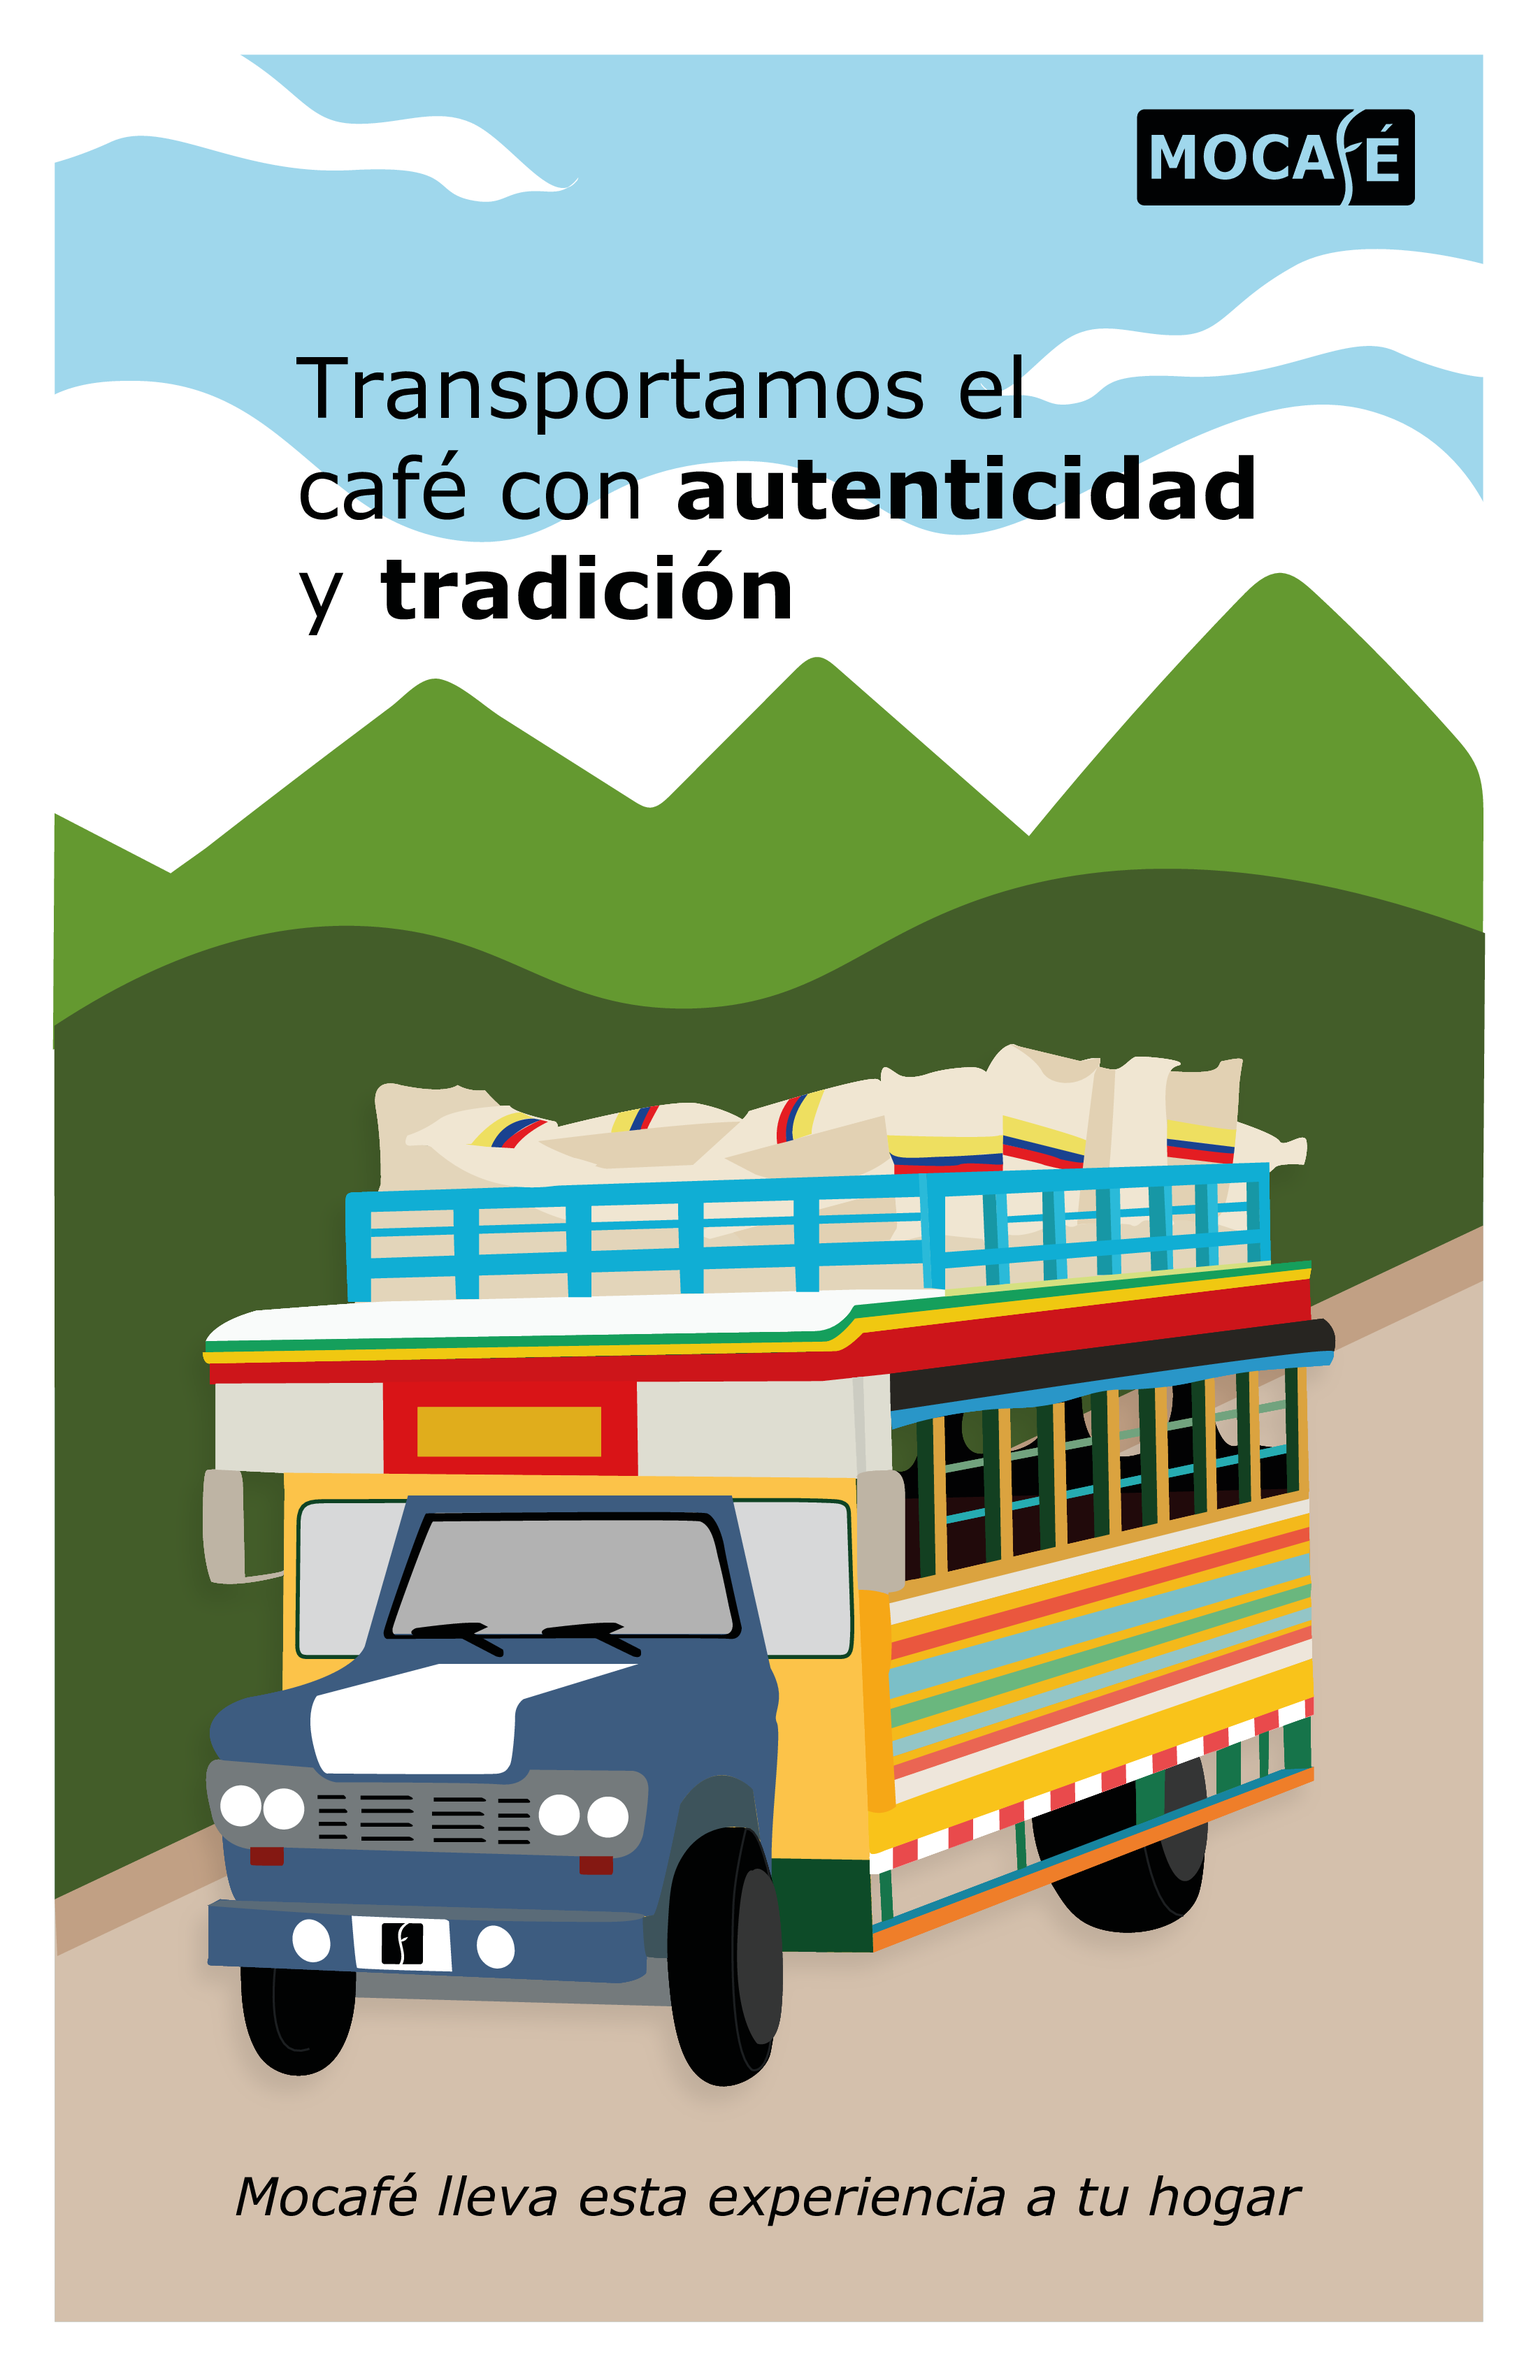
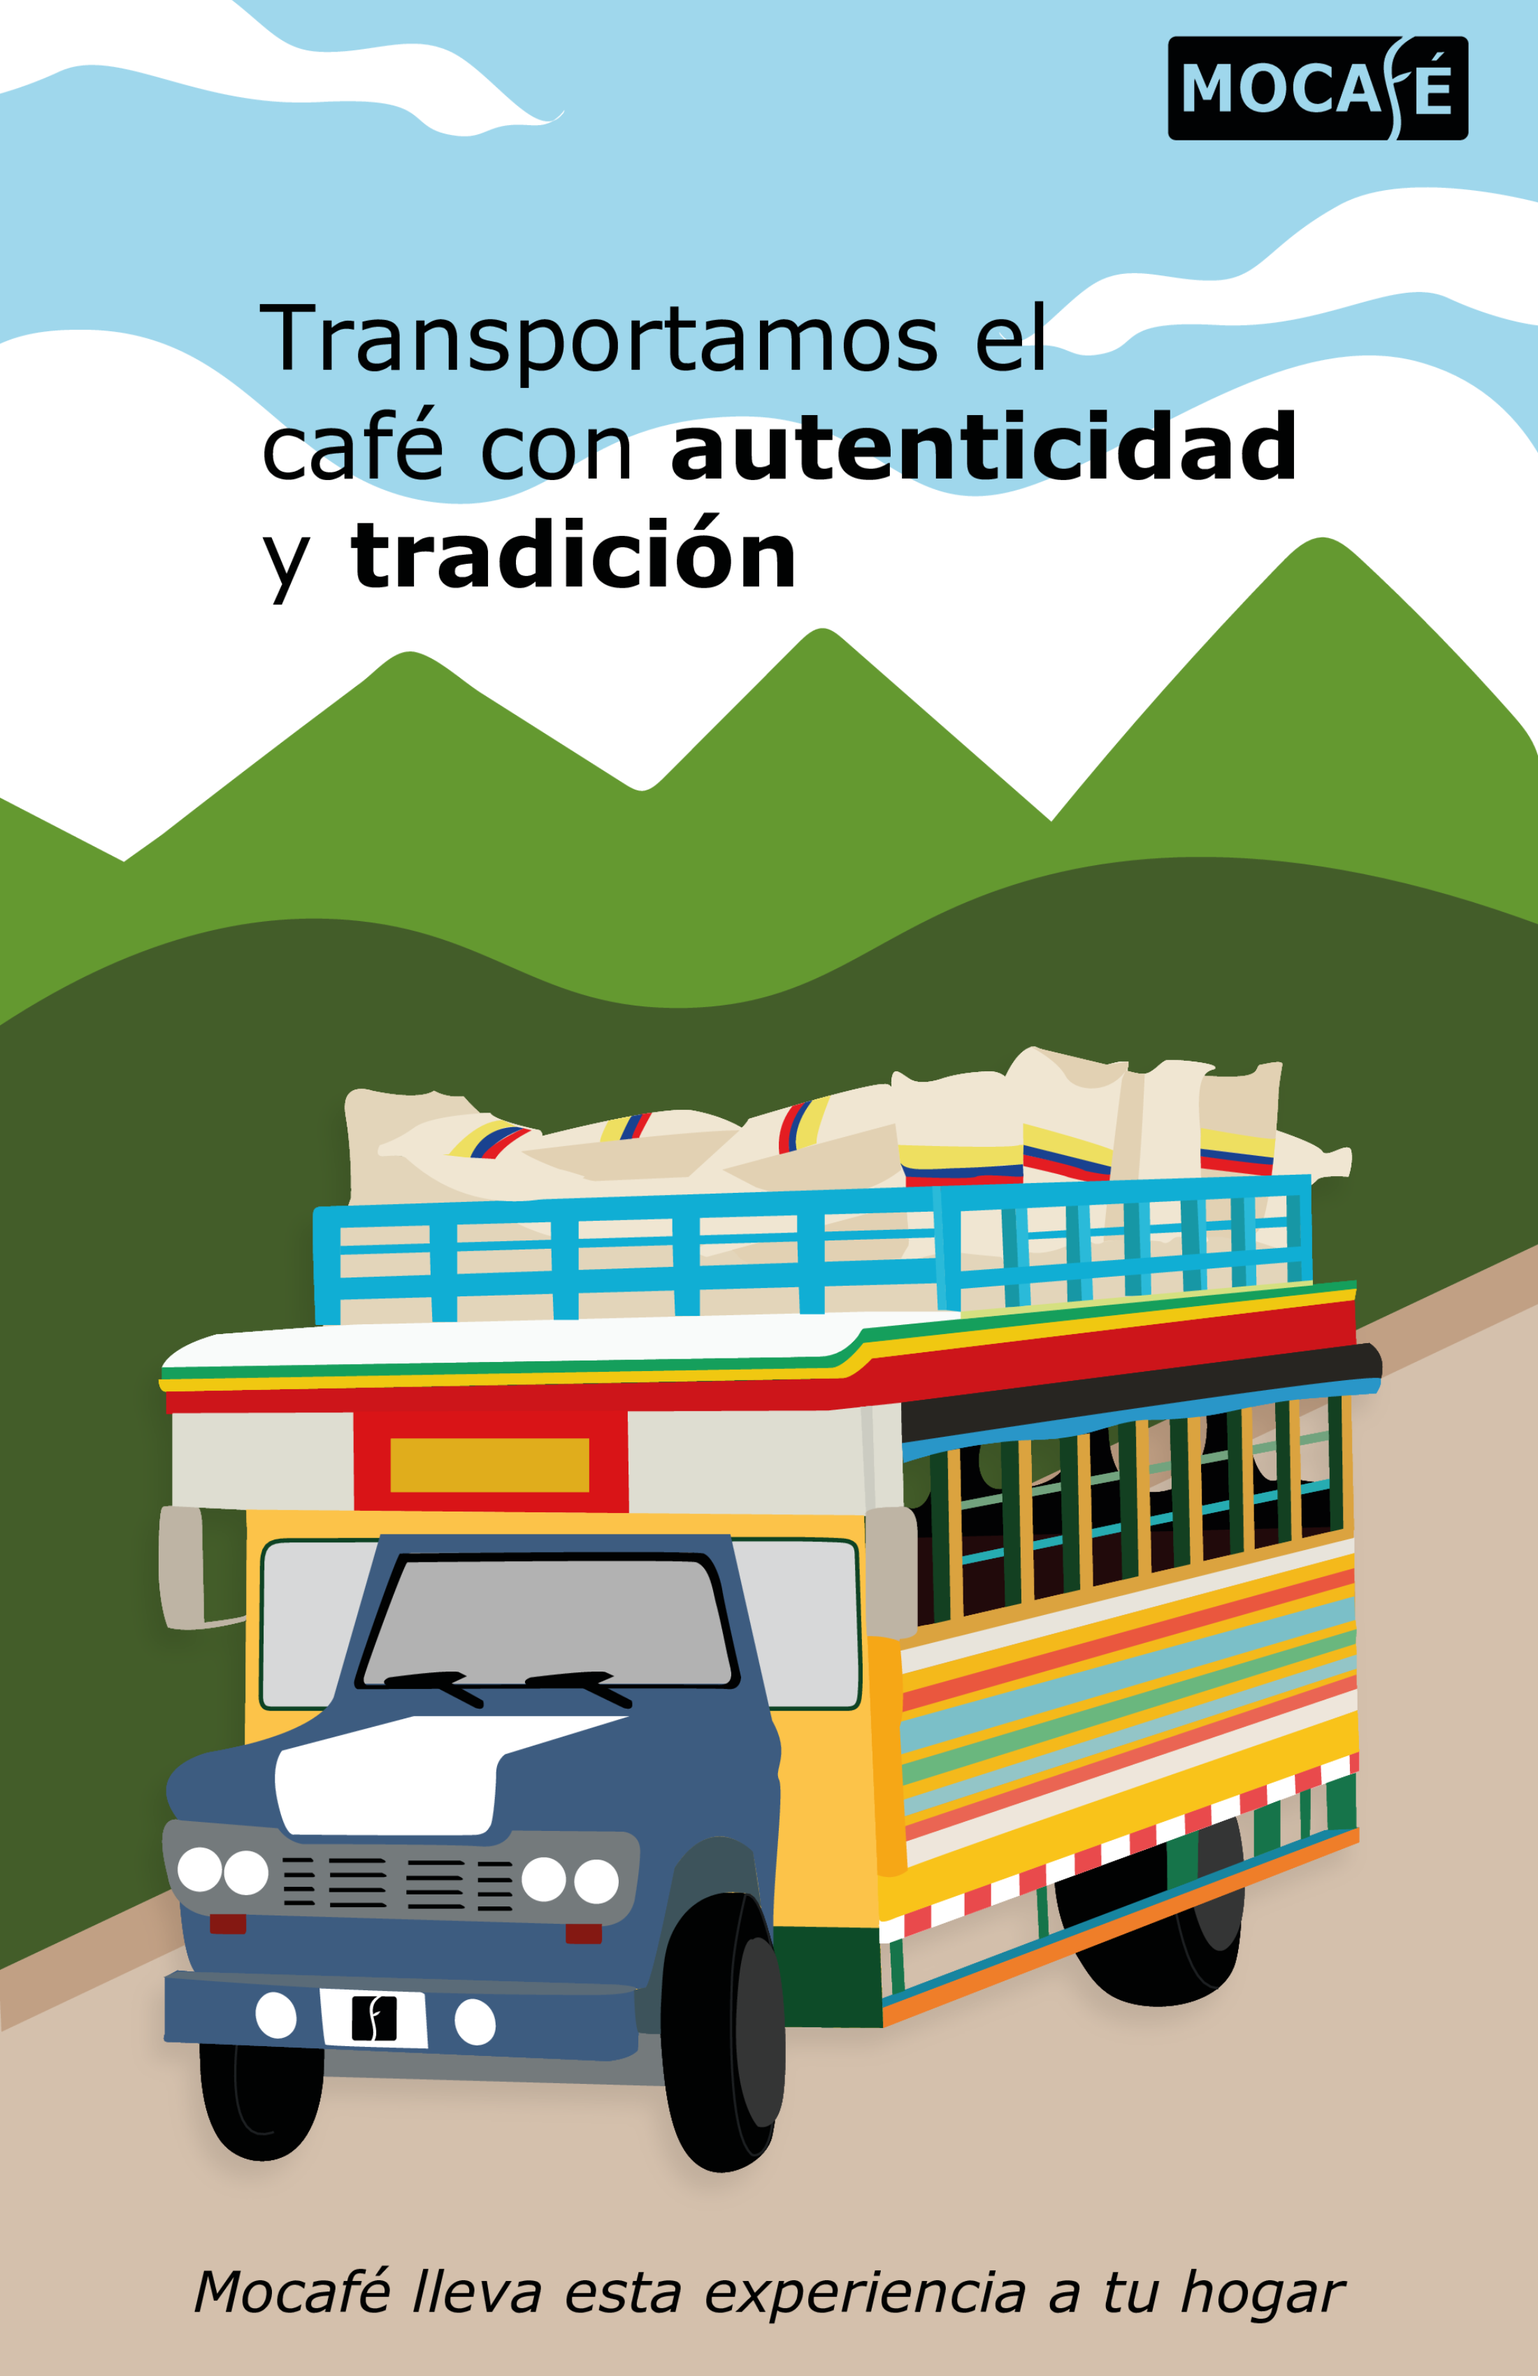
puse la chiba en contacto

diff --git a/css/mariana.css b/css/mariana.css
@@ -956,7 +956,7 @@ textarea:focus {
     margin-top: 20px;
 }
 
-.contacto2{
+.contacto2 {
     display: none;
 }
 
@@ -1705,47 +1705,68 @@ textarea:focus {
 
     /*CONTACTANOS*/
 
-    .contacto{
+    .div-body {
+        width: 100%;
+        height: 97vh;
+        background-image: url('../img/poster-chiva.png');
+        background-size: cover;
+        background-position: center;
+        background-repeat: no-repeat;
+        display: flex;
+        justify-content: center;
+        align-items: center;
+        color: #fff;
+        font-size: 24px;
+    }
+
+    .contacto {
         display: none;
     }
-    .contacto2{
+
+    .contacto2 {
         display: block;
     }
-    .contenido-contacto2{
+
+    .contenido-contacto2 {
         padding: 20px;
         color: #603e34;
     }
 
-    .div12{
+    .div12 {
         background: rgb(201, 201, 201);
         border-radius: 15px 15px 0 0;
     }
-    .div12 h1{
+
+    .div12 h1 {
         padding-top: 20px;
         text-align: center;
     }
-    .pum2{
+
+    .pum2 {
         display: flex;
         gap: 20px;
         align-items: center;
         margin: 10px;
     }
-    .pum2 img{
+
+    .pum2 img {
         width: 30px;
     }
 
-    .div22{
+    .div22 {
         background: rgb(201, 201, 201);
         border-radius: 0 0 15px 15px;
         margin-top: -10px;
         padding: 10px;
         padding-top: 50px;
     }
-    .div22 h1{
+
+    .div22 h1 {
         text-align: center;
         margin-bottom: 20px;
     }
-    .div22 input{
+
+    .div22 input {
         width: 100%;
         border-radius: 5px;
         border: none;
@@ -1753,7 +1774,8 @@ textarea:focus {
         height: 35px;
         padding-left: 10px;
     }
-    .div22 textarea{
+
+    .div22 textarea {
         width: 100%;
         border-radius: 5px;
         border: none;
@@ -1762,7 +1784,8 @@ textarea:focus {
         padding-top: 10px;
         padding-left: 10px;
     }
-    .div22 button{
+
+    .div22 button {
         background: #603e34;
         border: none;
         width: 50%;

diff --git a/module/contacto.html b/module/contacto.html
@@ -86,7 +86,8 @@
     </div>
   </div>
 
-  <div class="contacto2">
+  <div class="div-body">
+    <div class="contacto2">
     <div class="contenido-contacto2">
       <div class="div12">
         <h1>Redes sociales</h1>
@@ -116,6 +117,8 @@
       </div>
     </div>
   </div>
+  </div>
+  
 
 </body>
 
